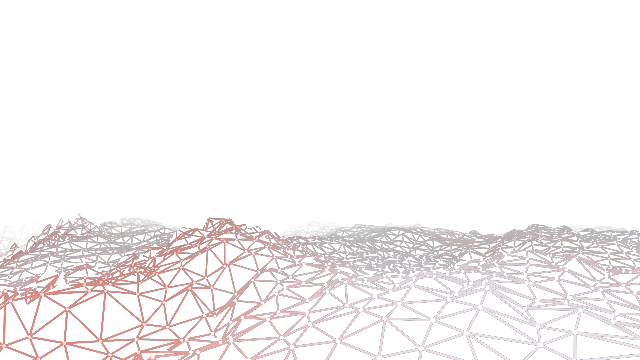
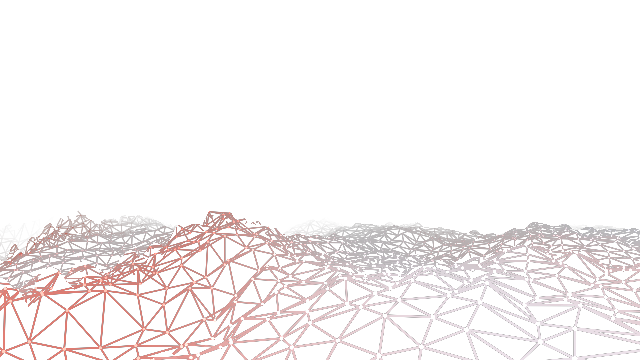
feat(media): let a hit stand as a mountain and then sink back
Two faults, one cause: the shader was reading the analysis as though bands
arrived in 0..1. They do not. On a live input they run into the hundreds -- how
high is somebody's gain staging, not a property of the music -- and the net
collapsed into a few red streaks the moment it met a real microphone. Nothing
now measures against an absolute level.

A shader also sees one frame and has nowhere to keep anything, so a response
that outlasts the sound that triggered it could not exist. The renderer now
keeps a per-layer envelope: each band rises to its magnitude at once and falls
back at the rate that visualizer's `decay` asks for, published alongside the
bands in the analysis row every visualizer already reads. A bass beat raises a
mountain where the bass sits and the mountain then subsides, which is the thing
that was asked for and was not otherwise expressible.

Held levels are published as a share of the loudest thing heard lately, falling
far more slowly than the bands do. Normalising against the loudest *held* band
instead would pin a lone decaying mountain at full height for as long as it was
the only sound in the room -- the one thing it must not do -- and the slow end
of `decay` has to stay clear of that reference for the same reason.

Silence is a real analysis and it arrives carrying no bands at all. Walking the
envelope by index rather than zipping against the spectrum is what lets it empty
when the audio device goes away, instead of freezing on its last hit.

Changed region(s): [[0.0, 0.5806, 1.0, 1.0]]

diff --git a/crates/media/adapters/render/src/visualizer.rs b/crates/media/adapters/render/src/visualizer.rs
@@ -188,6 +188,80 @@ pub enum VisualizerError {
     Texture(#[from] TextureError),
 }
 
+/// How long the reference takes to fall by a factor of e with nothing louder arriving.
+///
+/// Deliberately much slower than any decay an operator can ask for: it is what a held band is
+/// measured against, so it has to stay put while that band falls back. Slow enough that a hit
+/// visibly subsides, quick enough that a quiet passage gets its sensitivity back.
+const REFERENCE_FALL: f32 = 6.0;
+
+/// The slowest and fastest an operator can make a held band fall back, in seconds to fall by a
+/// factor of e.
+///
+/// The slow end has to stay clear of `REFERENCE_FALL`. A band falling no faster than the thing it
+/// is measured against would never sink at all: what is published is the ratio of the two, so it
+/// is their difference that an operator actually sees.
+const DECAY_FALL: std::ops::RangeInclusive<f32> = 0.10..=3.0;
+
+/// A visualizer's memory of what the music has just done.
+///
+/// A shader sees one frame and has nowhere to keep anything, so a response that outlasts the
+/// sound that triggered it has to be kept here. Each band rises to its magnitude at once and falls
+/// back at the rate the visualizer's `decay` asks for, which is what turns a bass hit into
+/// something that stands up and then subsides rather than a flicker.
+///
+/// One of these per layer, because `decay` belongs to the configured visualizer, not to the room.
+#[derive(Debug, Clone)]
+struct BandEnvelope {
+    /// Per-band peak-hold, low frequency first.
+    held: Vec<f32>,
+    /// The loudest band heard lately, falling far more slowly than the bands do. Everything is
+    /// published as a share of this, so a held band sinks as it falls back instead of being
+    /// renormalised to full height every frame, and nothing depends on how somebody set their
+    /// input gain.
+    reference: f32,
+    /// When this was last advanced, on the same clock the frame carries.
+    seconds: Option<f32>,
+}
+
+impl BandEnvelope {
+    fn new() -> Self {
+        Self {
+            held: vec![0.0; BANDS],
+            reference: 0.0,
+            seconds: None,
+        }
+    }
+
+    /// Advances to this frame and returns each band's held level as a share, `0..=1`.
+    fn advance(&mut self, analysis: &Analysis, seconds: f32, decay: f32) -> Vec<f32> {
+        // A first frame, a clock that jumped, or a stall: fall by at most a moderate step rather
+        // than emptying the envelope, so nothing flickers when frames are uneven.
+        let elapsed = match self.seconds {
+            Some(last) if seconds > last => (seconds - last).min(0.25),
+            _ => 0.0,
+        };
+        self.seconds = Some(seconds);
+
+        let fall = *DECAY_FALL.start()
+            + (1.0 - decay.clamp(0.0, 1.0)) * (*DECAY_FALL.end() - *DECAY_FALL.start());
+        let kept = (-elapsed / fall).exp();
+        let mut loudest = 0.0f32;
+        for (index, level) in self.held.iter_mut().enumerate() {
+            // Silence is a real analysis, and it arrives carrying no bands at all. Reading a
+            // missing band as zero rather than skipping it is what lets an envelope empty when the
+            // audio device goes away, instead of freezing at whatever it was holding.
+            let magnitude = analysis.spectrum.get(index).copied().unwrap_or(0.0);
+            *level = magnitude.max(*level * kept);
+            loudest = loudest.max(*level);
+        }
+
+        self.reference = loudest.max(self.reference * (-elapsed / REFERENCE_FALL).exp());
+        let against = self.reference.max(1e-5);
+        self.held.iter().map(|level| level / against).collect()
+    }
+}
+
 /// One output's visualizer pipelines and per-layer targets.
 pub struct VisualizerRenderer {
     gpu: Gpu,
@@ -198,6 +272,7 @@ pub struct VisualizerRenderer {
     analysis: wgpu::Texture,
     analysis_view: wgpu::TextureView,
     targets: HashMap<usize, SourceTexture>,
+    envelopes: HashMap<usize, BandEnvelope>,
 }
 
 impl VisualizerRenderer {
@@ -263,6 +338,7 @@ impl VisualizerRenderer {
             analysis,
             analysis_view,
             targets: HashMap::new(),
+            envelopes: HashMap::new(),
         }
     }
 
@@ -295,7 +371,12 @@ impl VisualizerRenderer {
         frame: &VisualizerFrame<'_>,
     ) -> Result<&SourceTexture, VisualizerError> {
         self.ensure_pipeline(kind)?;
-        self.upload_analysis(frame.analysis);
+        let held = self
+            .envelopes
+            .entry(layer)
+            .or_insert_with(BandEnvelope::new)
+            .advance(frame.analysis, frame.seconds, parameters.decay);
+        self.upload_analysis(frame.analysis, &held);
         self.gpu.queue.write_buffer(
             &self.uniform,
             0,
@@ -412,7 +493,7 @@ impl VisualizerRenderer {
     }
 
     /// Puts the newest analysis where the shaders can read it.
-    fn upload_analysis(&self, analysis: &Analysis) {
+    fn upload_analysis(&self, analysis: &Analysis, held: &[f32]) {
         let mut rows = vec![0.0f32; WAVEFORM_POINTS * 2];
         for (slot, value) in rows[..WAVEFORM_POINTS]
             .iter_mut()
@@ -423,6 +504,14 @@ impl VisualizerRenderer {
         for (slot, value) in rows[WAVEFORM_POINTS..WAVEFORM_POINTS + BANDS]
             .iter_mut()
             .zip(analysis.spectrum.iter())
+        {
+            *slot = *value;
+        }
+        // The held levels follow the bands along the same row. The row is 512 wide and the bands
+        // use 64 of it, so this costs nothing and no visualizer that ignores them is affected.
+        for (slot, value) in rows[WAVEFORM_POINTS + BANDS..WAVEFORM_POINTS + BANDS * 2]
+            .iter_mut()
+            .zip(held.iter())
         {
             *slot = *value;
         }
@@ -453,6 +542,118 @@ impl VisualizerRenderer {
 mod tests {
     use super::*;
     use media_domain::Tint;
+
+    fn spectrum(loud_band: usize, level: f32) -> Analysis {
+        let mut spectrum = vec![0.0; BANDS];
+        spectrum[loud_band] = level;
+        Analysis {
+            spectrum,
+            ..Analysis::default()
+        }
+    }
+
+    /// Runs the envelope forward the way a rendering output does, a frame at a time. A single
+    /// long step would be clamped, because a clamp is exactly what stops a stalled server from
+    /// emptying an envelope in one go.
+    fn play(
+        envelope: &mut BandEnvelope,
+        analysis: &Analysis,
+        from: f32,
+        seconds: f32,
+        decay: f32,
+    ) -> Vec<f32> {
+        let frame = 1.0 / 60.0;
+        let mut held = Vec::new();
+        let mut now = from;
+        while now < from + seconds {
+            now += frame;
+            held = envelope.advance(analysis, now, decay);
+        }
+        held
+    }
+
+    #[test]
+    fn a_hit_stands_after_the_sound_that_made_it_has_gone() {
+        // The whole point of holding a band: a bass beat lasts a few frames, and a response that
+        // ended with it would be a flicker rather than something an operator can watch subside.
+        let mut envelope = BandEnvelope::new();
+        let hit = envelope.advance(&spectrum(2, 40.0), 0.0, 0.2);
+        assert!(
+            hit[2] > 0.99,
+            "the band it landed in must reach full height"
+        );
+
+        let silence = Analysis::default();
+        let after = play(&mut envelope, &silence, 0.0, 0.5, 0.2);
+        assert!(
+            after[2] < hit[2],
+            "a held band must fall once the sound has gone"
+        );
+        assert!(
+            after[2] > 0.3,
+            "half a second must not empty a hit that is still visibly standing: {}",
+            after[2]
+        );
+
+        let later = play(&mut envelope, &silence, 0.5, 20.0, 0.2);
+        assert!(
+            later[2] < 0.1,
+            "the mountain has to come down eventually: {}",
+            later[2]
+        );
+    }
+
+    #[test]
+    fn decay_sets_how_long_a_hit_stands() {
+        let mut slow = BandEnvelope::new();
+        let mut quick = BandEnvelope::new();
+        slow.advance(&spectrum(2, 40.0), 0.0, 0.0);
+        quick.advance(&spectrum(2, 40.0), 0.0, 1.0);
+
+        let silence = Analysis::default();
+        let standing = play(&mut slow, &silence, 0.0, 0.4, 0.0);
+        let gone = play(&mut quick, &silence, 0.0, 0.4, 1.0);
+        assert!(
+            standing[2] > gone[2],
+            "a lower decay has to hold a hit longer: {} is not above {}",
+            standing[2],
+            gone[2]
+        );
+        assert!(
+            gone[2] < 0.05,
+            "the fastest decay has to be all but instant: {}",
+            gone[2]
+        );
+    }
+
+    #[test]
+    fn a_hit_is_measured_against_what_came_before_it_not_against_itself() {
+        // Normalising a held band by the loudest held band would pin a lone decaying mountain at
+        // full height for as long as it was the loudest thing present, which is the one thing it
+        // must not do.
+        let mut envelope = BandEnvelope::new();
+        envelope.advance(&spectrum(2, 40.0), 0.0, 0.5);
+        let after = play(&mut envelope, &Analysis::default(), 0.0, 1.0, 0.5);
+        assert!(
+            after[2] < 0.7,
+            "a sole surviving band still has to sink: {}",
+            after[2]
+        );
+    }
+
+    #[test]
+    fn a_quiet_passage_gets_its_sensitivity_back() {
+        // A loud show followed by a quiet one must not leave the quiet one flat forever.
+        let mut envelope = BandEnvelope::new();
+        envelope.advance(&spectrum(2, 400.0), 0.0, 0.5);
+        play(&mut envelope, &Analysis::default(), 0.0, 30.0, 0.5);
+        let quiet = envelope.advance(&spectrum(2, 4.0), 30.1, 0.5);
+        assert!(
+            quiet[2] > 0.9,
+            "the loudest thing in a quiet room is still the loudest thing: {}",
+            quiet[2]
+        );
+    }
 
     #[test]
     fn every_visualizer_has_its_own_shader_and_declares_one_shade_function() {

diff --git a/crates/media/domain/src/visualizer.rs b/crates/media/domain/src/visualizer.rs
@@ -160,7 +160,7 @@ impl VisualizerKind {
                 Speed, Count, Size, Radius, Amount, Primary, Secondary, Mode, Iterations,
             ],
             Self::TriangularNet => &[
-                Speed, Count, Size, Thickness, Amount, Reactivity, Zoom, Curvature, Primary,
+                Speed, Count, Size, Thickness, Amount, Reactivity, Decay, Zoom, Curvature, Primary,
                 Secondary, Mirror,
             ],
         }
@@ -323,6 +323,9 @@ impl VisualizerConfiguration {
             parameters.count = 32;
             parameters.size = 0.05;
             parameters.thickness = 0.01;
+            // A hit should stand as a mountain for a beat or two before it sinks, which is the
+            // slow end of the control rather than the middle.
+            parameters.decay = 0.2;
             parameters.curvature = 0.5;
             parameters.primary = Tint::new(0.90, 0.92, 0.96);
             parameters.secondary = Tint::new(0.90, 0.11, 0.0);
